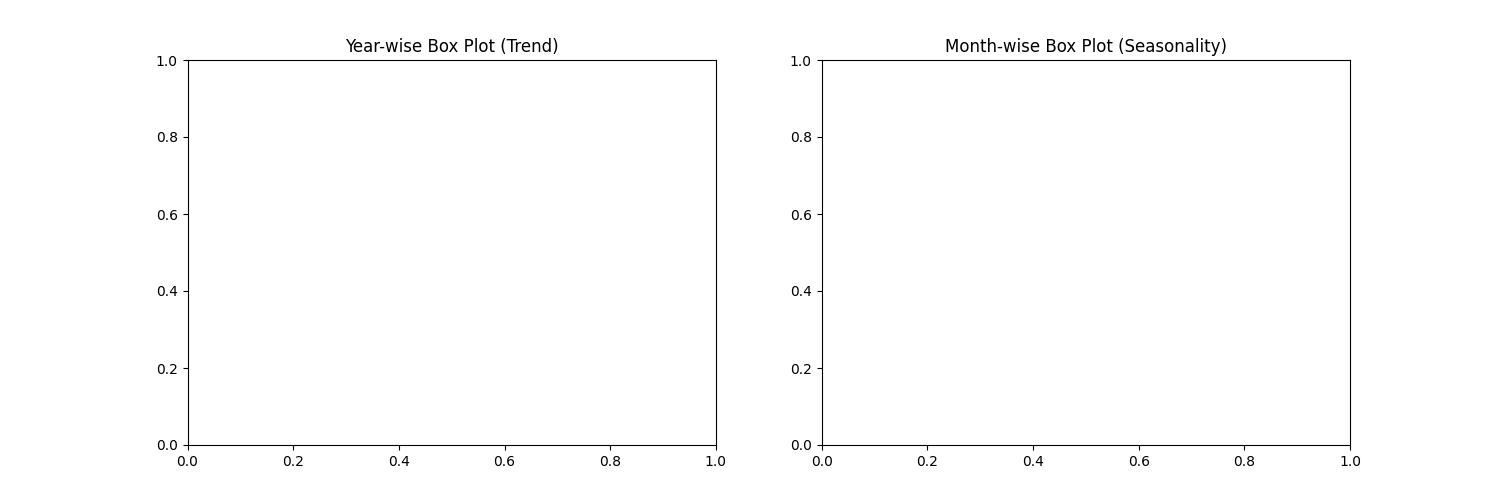
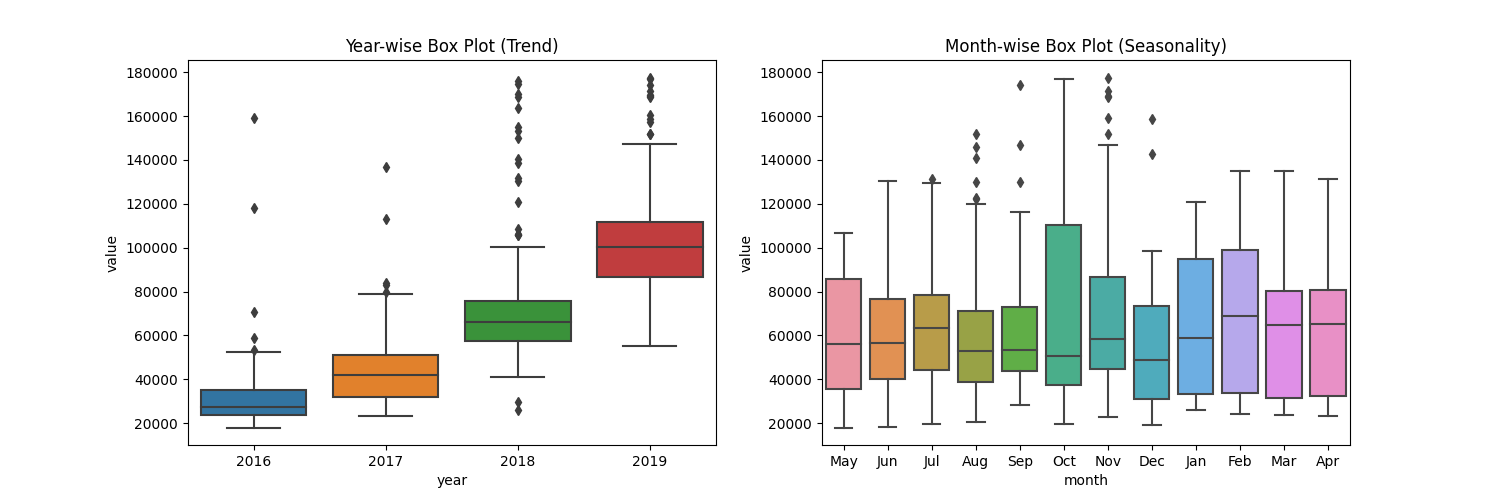
I made plots

diff --git a/time_series_visualizer.py b/time_series_visualizer.py
@@ -71,11 +71,16 @@ def draw_box_plot():
     # title of the second chart should be Month-wise Box Plot (Seasonality). Make sure the month labels on bottom
     # start at Jan and the x and y-axis are labeled correctly. The boilerplate includes commands to prepare the data.
 
-    fig, ax = plt.subplots(nrows=1, ncols=2,figsize=(15, 5))
+    fig, ax = plt.subplots(nrows=1, ncols=2, figsize=(15, 5))
 
     ax[0].set_title("Year-wise Box Plot (Trend)")
     ax[1].set_title("Month-wise Box Plot (Seasonality)")
 
+    month_order = ['January', 'February', 'March', 'April', 'May', 'June',
+                   'July', 'August', 'September', 'October', 'November', 'December']
+
+    ax[0] = sns.boxplot(x=df_box['year'], y=df_box['value'], ax=ax[0])
+    ax[1] = sns.boxplot(x=df_box['month'], y=df_box['value'], ax=ax[1])
 
 
     # Save image and return fig (don't change this part)
